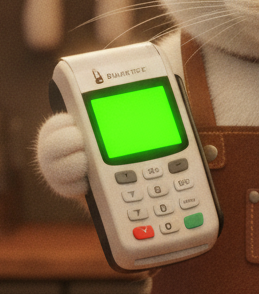
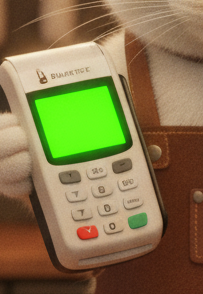
fix: crop cat paw from POS reference and lock cat-to-Moka-pot height ratio across all 3 shots

diff --git a/storyboards/storyboard_preview.html b/storyboards/storyboard_preview.html
@@ -30,14 +30,14 @@
 </head>
 <body>
 <h1>🎬 三花貓妮妮咖啡廳系列</h1>
-<p class="meta">分鏡確認頁面 · 生成時間：2026-09-04 19:20 · 共 3 段分鏡</p>
+<p class="meta">分鏡確認頁面 · 生成時間：2026-09-04 19:46 · 共 3 段分鏡</p>
 <div class="grid">
         <div class="card">
             <div class="card-header">
                 <span class="shot-id">SHOT1</span>
                 <h2>Shot 1（0–4s）：索卡付款</h2>
             </div>
-            <img src="file:///C:/Users/lsyan/Documents/Code/CatAnimation/storyboards/shot1_20260904_191955.png" alt="Shot 1（0–4s）：索卡付款">
+            <img src="file:///C:/Users/lsyan/Documents/Code/CatAnimation/storyboards/shot1_20260904_194621.png" alt="Shot 1（0–4s）：索卡付款">
             <div class="card-body">
                 <p class="description">矮矮嬌小的妮妮右爪持 POS 機遞向鏡頭，顧客刷卡，綠燈確認後放下 POS 機開始製作咖啡</p>
                 <details>
@@ -49,7 +49,7 @@ wearing a brown leather apron, standing behind a dark warm wooden barista counte
 BACKGROUND: moka_cat_12s style warm cafe interior with dark wooden shelves holding coffee bags and glass jars,
 a professional stainless steel espresso machine behind, hanging warm amber Edison bulb lights with soft golden bokeh.
 Counter has ONLY TWO items: ONE empty white ceramic mug in center,
-ONE classic Bialetti Moka Express octagonal aluminum Moka pot (silver-grey metallic finish with iconic mustache man logo on front chamber wall, black plastic handle strictly on the RIGHT SIDE).
+ONE small classic Bialetti Moka Express octagonal aluminum Moka pot (silver-grey metallic finish with iconic mustache man logo on front chamber wall, black plastic handle strictly on the RIGHT SIDE; the Moka pot is small, reaching only up to cat's lower chest level).
 There is NO POS machine on the counter table.
 The cat holds ONE POS card reader up with its right paw toward the camera — the ONLY POS machine in scene.
 Green confirmation light glows on the POS screen in the cat's paw.
@@ -68,7 +68,7 @@ Cinematic warm golden cafe lighting, 8K fur texture.</pre>
                 <span class="shot-id">SHOT2</span>
                 <h2>Shot 2（4–8s）：倒咖啡 + 奶泡拉花</h2>
             </div>
-            <img src="file:///C:/Users/lsyan/Documents/Code/CatAnimation/storyboards/shot2_20260904_192018.png" alt="Shot 2（4–8s）：倒咖啡 + 奶泡拉花">
+            <img src="file:///C:/Users/lsyan/Documents/Code/CatAnimation/storyboards/shot2_20260904_194638.png" alt="Shot 2（4–8s）：倒咖啡 + 奶泡拉花">
             <div class="card-body">
                 <p class="description">矮矮嬌小的妮妮右爪抓握摩卡壺右側把手傾斜倒入白瓷杯，接著用奶泡壺拉出愛心</p>
                 <details>
@@ -77,9 +77,8 @@ Cinematic warm golden cafe lighting, 8K fur texture.</pre>
 SAME calico cat Nini (white fur with orange and black patches, green eyes, white chest, EXACT SAME short cute cat height and small body proportions)
 in brown leather apron behind the dark wooden barista counter (counter height reaches cat's chest level).
 BACKGROUND: same moka_cat_12s style warm cafe interior — dark wooden shelves, espresso machine, hanging Edison lights, rich golden bokeh.
-Counter: POS card machine placed on far LEFT corner (still visible), ONE white ceramic mug stationary in center
-receiving dark espresso being poured.
-Cat grips the EXACT SAME Bialetti Moka Express octagonal aluminum Moka pot by its RIGHT-SIDE black plastic handle with its right paw,
+Counter: POS card machine rests ALONE on far LEFT corner (no cat paws touching the POS machine), ONE white ceramic mug stationary in center receiving dark espresso being poured.
+Cat grips the EXACT SAME small Bialetti Moka Express octagonal aluminum Moka pot by its RIGHT-SIDE black plastic handle with its right paw (Moka pot reaches lower chest level only),
 tilting it from the right side to pour into the center mug (handle strictly on RIGHT, shape and logo unchanged). Warm steam rising from mug.
 Cinematic warm golden cafe lighting, 8K calico fur detail.</pre>
                 </details>
@@ -96,16 +95,16 @@ Cinematic warm golden cafe lighting, 8K calico fur detail.</pre>
                 <span class="shot-id">SHOT3</span>
                 <h2>Shot 3（8–12s）：偷舔奶泡 ➔ 楚楚可憐遞給你</h2>
             </div>
-            <img src="file:///C:/Users/lsyan/Documents/Code/CatAnimation/storyboards/shot3_20260904_192045.png" alt="Shot 3（8–12s）：偷舔奶泡 ➔ 楚楚可憐遞給你">
+            <img src="file:///C:/Users/lsyan/Documents/Code/CatAnimation/storyboards/shot3_20260904_194658.png" alt="Shot 3（8–12s）：偷舔奶泡 ➔ 楚楚可憐遞給你">
             <div class="card-body">
                 <p class="description">矮矮嬌小的妮妮雙爪捧杯偷舔奶泡被抓包，露出最無辜楚楚可憐的表情，輕輕遞出咖啡</p>
                 <details>
                     <summary>查看完整 Prompt</summary>
                     <pre>Photorealistic 3D rendered storyboard frame. Close-up shot inside a cozy ambient cafe.
-SAME calico cat Nini (white fur with orange and black patches, green eyes, white chest, EXACT SAME adorable short cat body height)
+SAME calico cat Nini (white fur with orange and black patches, green eyes, white chest, EXACT SAME adorable short cat body height and head size as Shot 1 and Shot 2).
 in brown leather apron.
 BACKGROUND: moka_cat_12s style warm blurred cafe interior with golden bokeh lights and wooden shelves.
-On the dark wooden counter next to the cat: the EXACT SAME Bialetti Moka Express octagonal aluminum Moka pot (black handle strictly on RIGHT SIDE, mustache man logo on front).
+On the dark wooden counter next to the cat: the EXACT SAME small Bialetti Moka Express octagonal aluminum Moka pot (small scale relative to cat, reaching lower chest height only; black handle strictly on RIGHT SIDE, mustache man logo on front).
 Cat holds ONE white ceramic mug with heart-shaped latte art with BOTH PAWS —
 caught licking milk foam with its small pink tongue.
 Expression: NOT guilty smirk — the most innocent, soft, doe-eyed look.

diff --git a/storyboard_generator.py b/storyboard_generator.py
@@ -34,10 +34,11 @@ POS_REF_PATH = r"C:\Users\lsyan\Documents\Code\CatAnimation\pos_reference.png"
 # 全局硬性規則（會自動加到每段 prompt 前面）
 GLOBAL_CONSTRAINTS = """
 === HARD CONSTRAINTS (NEVER VIOLATE) ===
-- CAT PROPORTIONS & HEIGHT: Exactly match Reference Image 1 (Nini the calico cat). Small compact cat body height, short cute paws, realistic small cat proportions (not tall humanoid). Wooden barista counter top reaches up to cat's chest/shoulder level in ALL shots so cat height remains 100% IDENTICAL across all frames.
-- BACKGROUND & ATMOSPHERE: Exactly match the warm, cinematic, golden-lit cafe atmosphere of 'moka_cat_12s' — rich dark wooden counter, warm amber Edison bulb hanging lights creating soft golden bokeh background, warm cinematic ray-traced lighting, cozy premium cafe ambiance.
+- CAT-TO-MOKA-POT SCALE RATIO (MUST BE 100% IDENTICAL IN ALL SHOTS): The cat Nini is significantly taller and larger than the Moka pot in ALL THREE SHOTS. The Bialetti Moka pot is a small tabletop utensil (reaching only up to the cat's lower chest/elbow level). The cat's head is 2.5 times higher than the top of the Moka pot in ALL shots. In Shot 3 close-up, the Moka pot MUST remain small in scale relative to the cat (never oversized or giant).
+- CAT PROPORTIONS & HEIGHT: Exactly match Reference Image 1 (Nini the calico cat). Small compact cat body height, short cute paws. Wooden barista counter top reaches up to cat's chest/shoulder level in ALL shots so cat height remains 100% IDENTICAL across all frames.
+- BACKGROUND & ATMOSPHERE: Exactly match the warm, cinematic, golden-lit cafe atmosphere of 'moka_cat_12s' — rich dark wooden counter, warm amber Edison bulb hanging lights creating soft golden bokeh background, warm cinematic ray-traced lighting.
 - MOKA POT APPEARANCE & HANDLE: Exactly match Reference Image 2 (Bialetti Moka Express pot). MUST copy the EXACT line-art logo of the little man with mustache raising one finger ('L'omino con i baffi') and 'BIALETTI' text onto the upper octagonal chamber. The black plastic handle MUST be strictly attached on the RIGHT SIDE ONLY (facing right from viewer's perspective) in ALL shots — NEVER flipped or mirrored.
-- POS MACHINE APPEARANCE: Exactly match Reference Image 3 (Payment terminal). Light grey front casing, glowing green screen at top, 3x4 numeric button layout with red bottom-left button and green bottom-right button. EXACT SAME color, button layout, and shape in both Shot 1 and Shot 2.
+- POS MACHINE APPEARANCE & POSSESSION: Exactly match Reference Image 3 (Payment terminal). Light grey front casing, glowing green screen at top, 3x4 numeric button layout. In Shot 1, cat holds POS machine with right paw. In Shot 2, POS machine rests ALONE on the far-left counter with NO CAT PAWS touching it.
 - ONE white ceramic mug. NEVER changes shape, size, or style.
 - Cat does NOT start coffee-making until AFTER green payment light confirms.
 - All objects obey gravity. Nothing floats.
@@ -57,7 +58,7 @@ wearing a brown leather apron, standing behind a dark warm wooden barista counte
 BACKGROUND: moka_cat_12s style warm cafe interior with dark wooden shelves holding coffee bags and glass jars,
 a professional stainless steel espresso machine behind, hanging warm amber Edison bulb lights with soft golden bokeh.
 Counter has ONLY TWO items: ONE empty white ceramic mug in center,
-ONE classic Bialetti Moka Express octagonal aluminum Moka pot (silver-grey metallic finish with iconic mustache man logo on front chamber wall, black plastic handle strictly on the RIGHT SIDE).
+ONE small classic Bialetti Moka Express octagonal aluminum Moka pot (silver-grey metallic finish with iconic mustache man logo on front chamber wall, black plastic handle strictly on the RIGHT SIDE; the Moka pot is small, reaching only up to cat's lower chest level).
 There is NO POS machine on the counter table.
 The cat holds ONE POS card reader up with its right paw toward the camera — the ONLY POS machine in scene.
 Green confirmation light glows on the POS screen in the cat's paw.
@@ -71,9 +72,8 @@ Cinematic warm golden cafe lighting, 8K fur texture.""",
 SAME calico cat Nini (white fur with orange and black patches, green eyes, white chest, EXACT SAME short cute cat height and small body proportions)
 in brown leather apron behind the dark wooden barista counter (counter height reaches cat's chest level).
 BACKGROUND: same moka_cat_12s style warm cafe interior — dark wooden shelves, espresso machine, hanging Edison lights, rich golden bokeh.
-Counter: POS card machine placed on far LEFT corner (still visible), ONE white ceramic mug stationary in center
-receiving dark espresso being poured.
-Cat grips the EXACT SAME Bialetti Moka Express octagonal aluminum Moka pot by its RIGHT-SIDE black plastic handle with its right paw,
+Counter: POS card machine rests ALONE on far LEFT corner (no cat paws touching the POS machine), ONE white ceramic mug stationary in center receiving dark espresso being poured.
+Cat grips the EXACT SAME small Bialetti Moka Express octagonal aluminum Moka pot by its RIGHT-SIDE black plastic handle with its right paw (Moka pot reaches lower chest level only),
 tilting it from the right side to pour into the center mug (handle strictly on RIGHT, shape and logo unchanged). Warm steam rising from mug.
 Cinematic warm golden cafe lighting, 8K calico fur detail.""",
     },
@@ -82,10 +82,10 @@ Cinematic warm golden cafe lighting, 8K calico fur detail.""",
         "title": "Shot 3（8–12s）：偷舔奶泡 ➔ 楚楚可憐遞給你",
         "description": "矮矮嬌小的妮妮雙爪捧杯偷舔奶泡被抓包，露出最無辜楚楚可憐的表情，輕輕遞出咖啡",
         "prompt": """Photorealistic 3D rendered storyboard frame. Close-up shot inside a cozy ambient cafe.
-SAME calico cat Nini (white fur with orange and black patches, green eyes, white chest, EXACT SAME adorable short cat body height)
+SAME calico cat Nini (white fur with orange and black patches, green eyes, white chest, EXACT SAME adorable short cat body height and head size as Shot 1 and Shot 2).
 in brown leather apron.
 BACKGROUND: moka_cat_12s style warm blurred cafe interior with golden bokeh lights and wooden shelves.
-On the dark wooden counter next to the cat: the EXACT SAME Bialetti Moka Express octagonal aluminum Moka pot (black handle strictly on RIGHT SIDE, mustache man logo on front).
+On the dark wooden counter next to the cat: the EXACT SAME small Bialetti Moka Express octagonal aluminum Moka pot (small scale relative to cat, reaching lower chest height only; black handle strictly on RIGHT SIDE, mustache man logo on front).
 Cat holds ONE white ceramic mug with heart-shaped latte art with BOTH PAWS —
 caught licking milk foam with its small pink tongue.
 Expression: NOT guilty smirk — the most innocent, soft, doe-eyed look.
